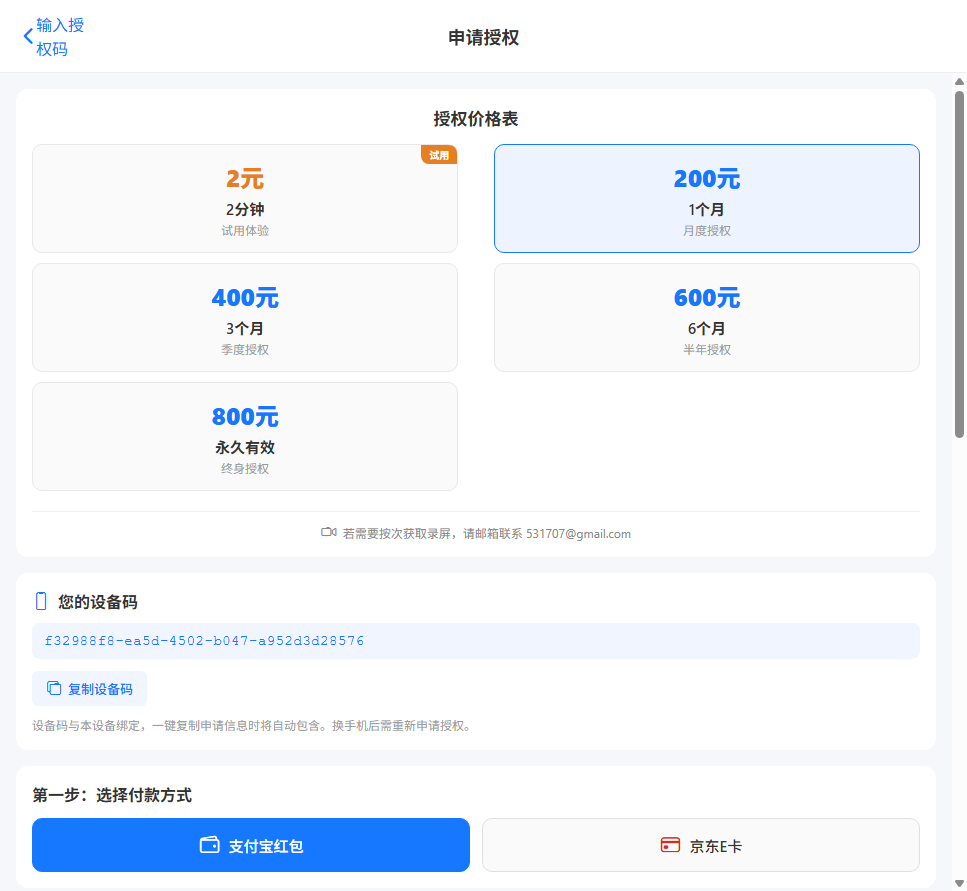
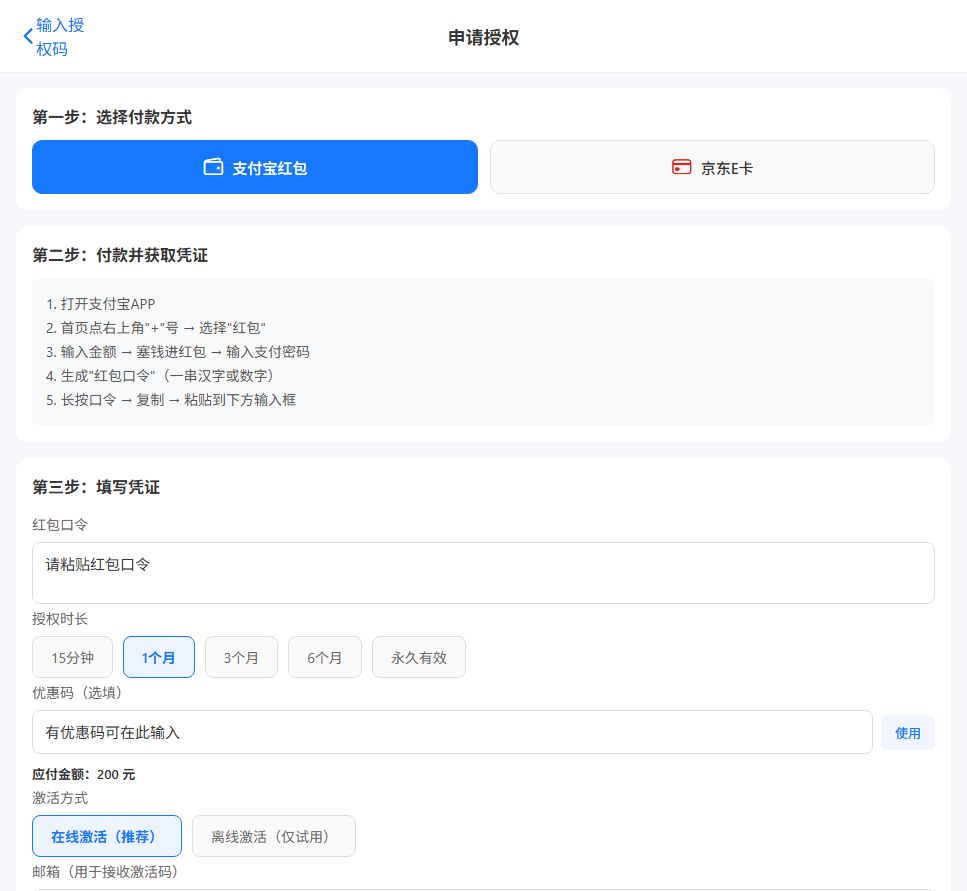
页面截图更新至 v1.4.0：申请页含优惠码、关于页含帮助与反馈、新增意见反馈页

diff --git a/index.html b/index.html
@@ -189,8 +189,9 @@ footer { text-align: center; padding: 40px 20px; color: #9ca3af; font-size: 13px
       <div class="shot"><img src="screens/06_income_tax_results.png" alt="收入纳税明细结果"><div class="cap">收入纳税明细 · 结果<span>收入/税额合计 + 按月卡片</span></div></div>
       <div class="shot"><img src="screens/07_login.png" alt="登录页"><div class="cap">登录页<span>任意账号密码 + 滑块验证</span></div></div>
       <div class="shot"><img src="screens/08_profile_notloggedin.png" alt="我的-未登录"><div class="cap">我的 · 未登录<span>注册 / 登录入口</span></div></div>
-      <div class="shot"><img src="screens/09_license_apply.png" alt="申请授权"><div class="cap">申请授权<span>价格表 · 设备码 · 付款指引</span></div></div>
-      <div class="shot"><img src="screens/10_about.png" alt="关于&更新"><div class="cap">关于 & 更新<span>版本信息 · 首页图片管理</span></div></div>
+      <div class="shot"><img src="screens/09_license_apply.png" alt="申请授权"><div class="cap">申请授权<span>价格表 · 优惠码 · 设备码 · 付款指引</span></div></div>
+      <div class="shot"><img src="screens/10_about.png" alt="关于&更新"><div class="cap">关于 & 更新<span>帮助与反馈 · 版本信息 · 首页图片管理</span></div></div>
+      <div class="shot"><img src="screens/11_feedback.png" alt="意见反馈"><div class="cap">意见反馈<span>问题反馈 · 功能建议 · 直达管理员</span></div></div>
     </div>
   </div>
 

diff --git a/README.md b/README.md
@@ -59,6 +59,7 @@
 | 收入纳税明细 · 筛选 | ![筛选](screens/05_income_tax.png) |
 | 收入纳税明细 · 结果 | ![结果](screens/06_income_tax_results.png) |
 | 申请授权 | ![申请授权](screens/09_license_apply.png) |
+| 意见反馈 | ![意见反馈](screens/11_feedback.png) |
 | 关于 & 更新 | ![关于](screens/10_about.png) |
 
 ## 💰 价格
